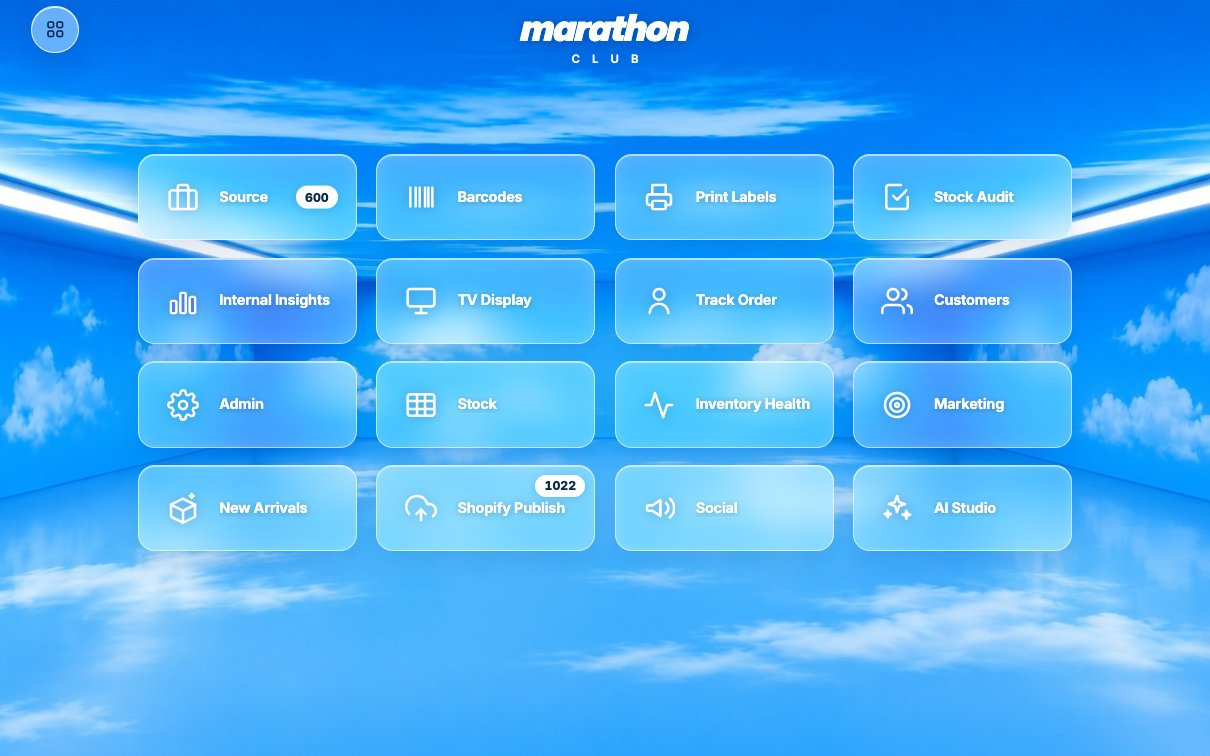
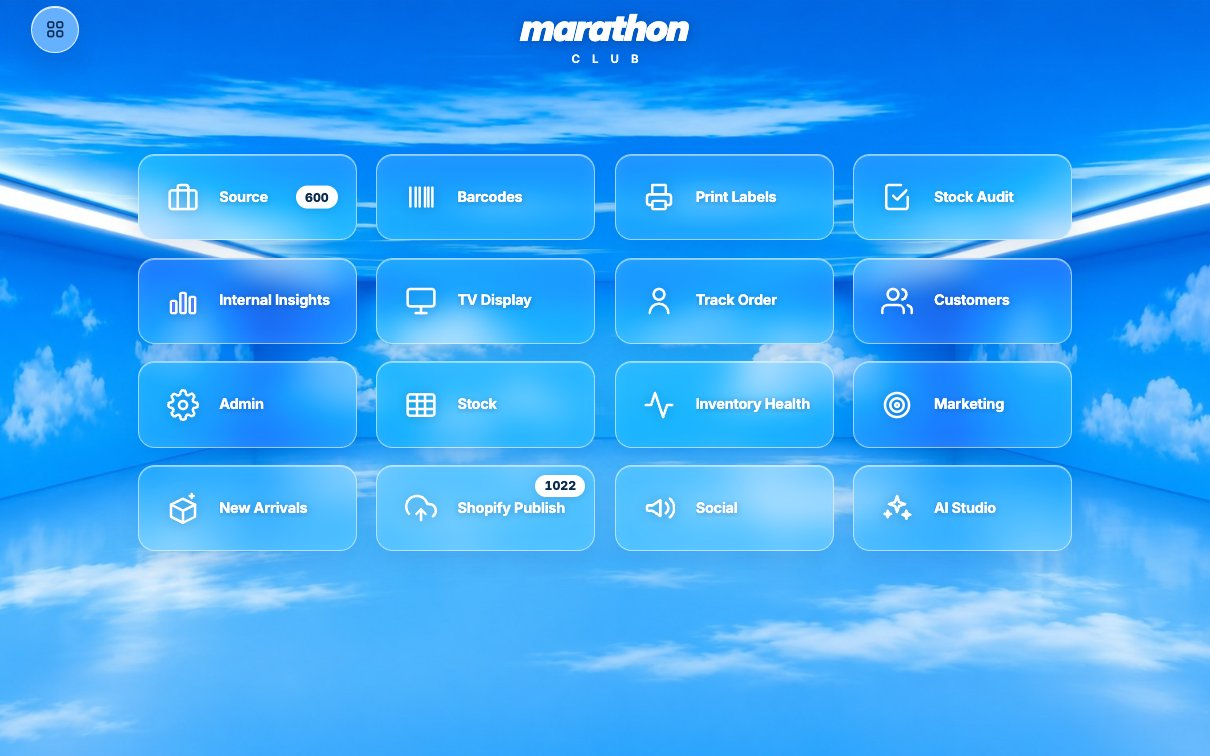
Admin view tiles: more transparent glass (Junid: too white)

Changed region(s): [[0.0917, 0.1825, 0.8868, 0.7302]]

diff --git a/src/components/sky/SkyHome.jsx b/src/components/sky/SkyHome.jsx
@@ -203,10 +203,10 @@ html[data-sky="on"] #root .sky-hub__livecard button[style]:hover{background:rgba
   .sky-hub{position:absolute;left:0;right:0;top:12.74vw;max-width:77.18vw;margin:0 auto;padding:0 0 40px}
   .sky-hub__grid{grid-template-columns:repeat(4,minmax(0,1fr));gap:1.45vw 1.58vw}
   .sky-mini{height:7.12vw;min-height:0;padding:0 1.2vw 0 2.27vw;gap:1.7vw;border-radius:1.39vw;
-    background:rgba(255,255,255,.26);border:1.5px solid rgba(255,255,255,.62);
-    box-shadow:inset 0 1px 0 rgba(255,255,255,.55),inset 0 0 18px rgba(255,255,255,.16),0 10px 26px rgba(10,60,140,.14);
-    -webkit-backdrop-filter:blur(18px) saturate(115%) brightness(1.06);backdrop-filter:blur(18px) saturate(115%) brightness(1.06);text-shadow:0 1px 6px rgba(0,40,110,.3)}
-  .sky-mini:hover{background:rgba(255,255,255,.34)}
+    background:rgba(255,255,255,.1);border:1.5px solid rgba(255,255,255,.55);
+    box-shadow:inset 0 1px 0 rgba(255,255,255,.45),inset 0 0 14px rgba(255,255,255,.08),0 10px 26px rgba(10,60,140,.12);
+    -webkit-backdrop-filter:blur(16px) saturate(120%);backdrop-filter:blur(16px) saturate(120%);text-shadow:0 1px 6px rgba(0,40,110,.3)}
+  .sky-mini:hover{background:rgba(255,255,255,.18)}
   .sky-mini__ic{width:2.65vw;height:2.65vw}
   .sky-mini__ic svg{width:2.65vw !important;height:2.65vw !important;stroke-width:1.9;filter:drop-shadow(0 1px 6px rgba(0,40,110,.3)) !important}
   .sky-mini__nm{font-size:1.2vw;font-weight:700;letter-spacing:-.015em;white-space:nowrap}
